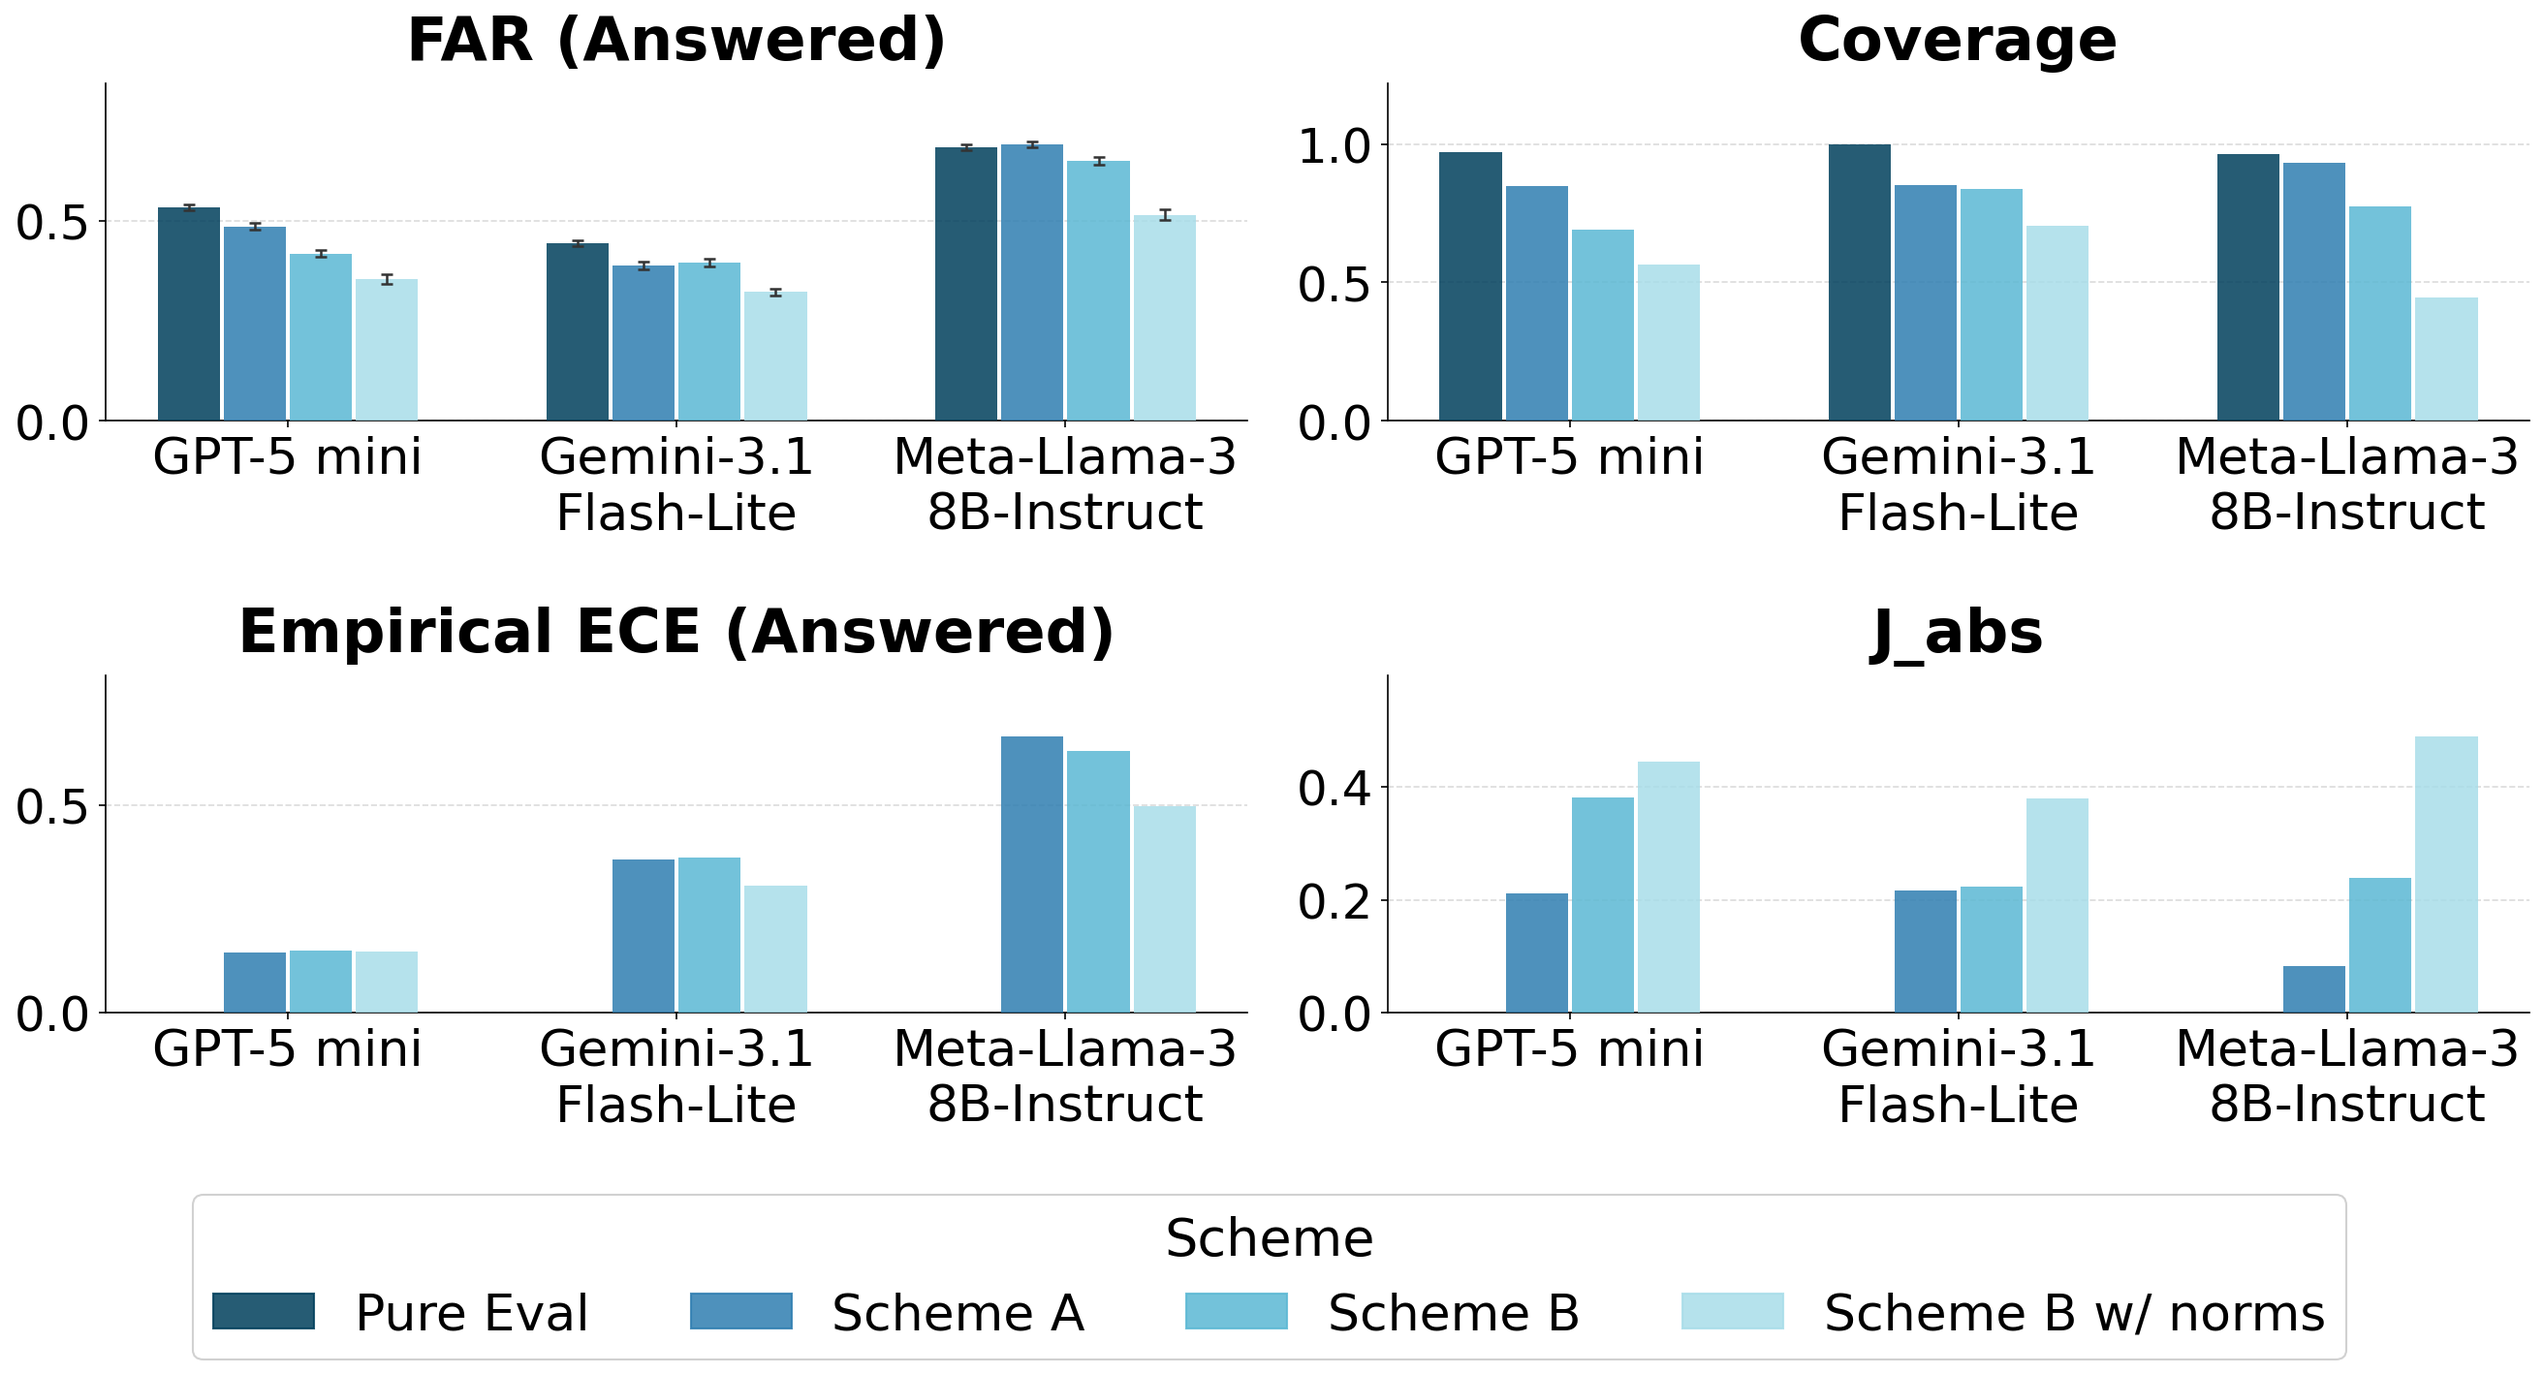
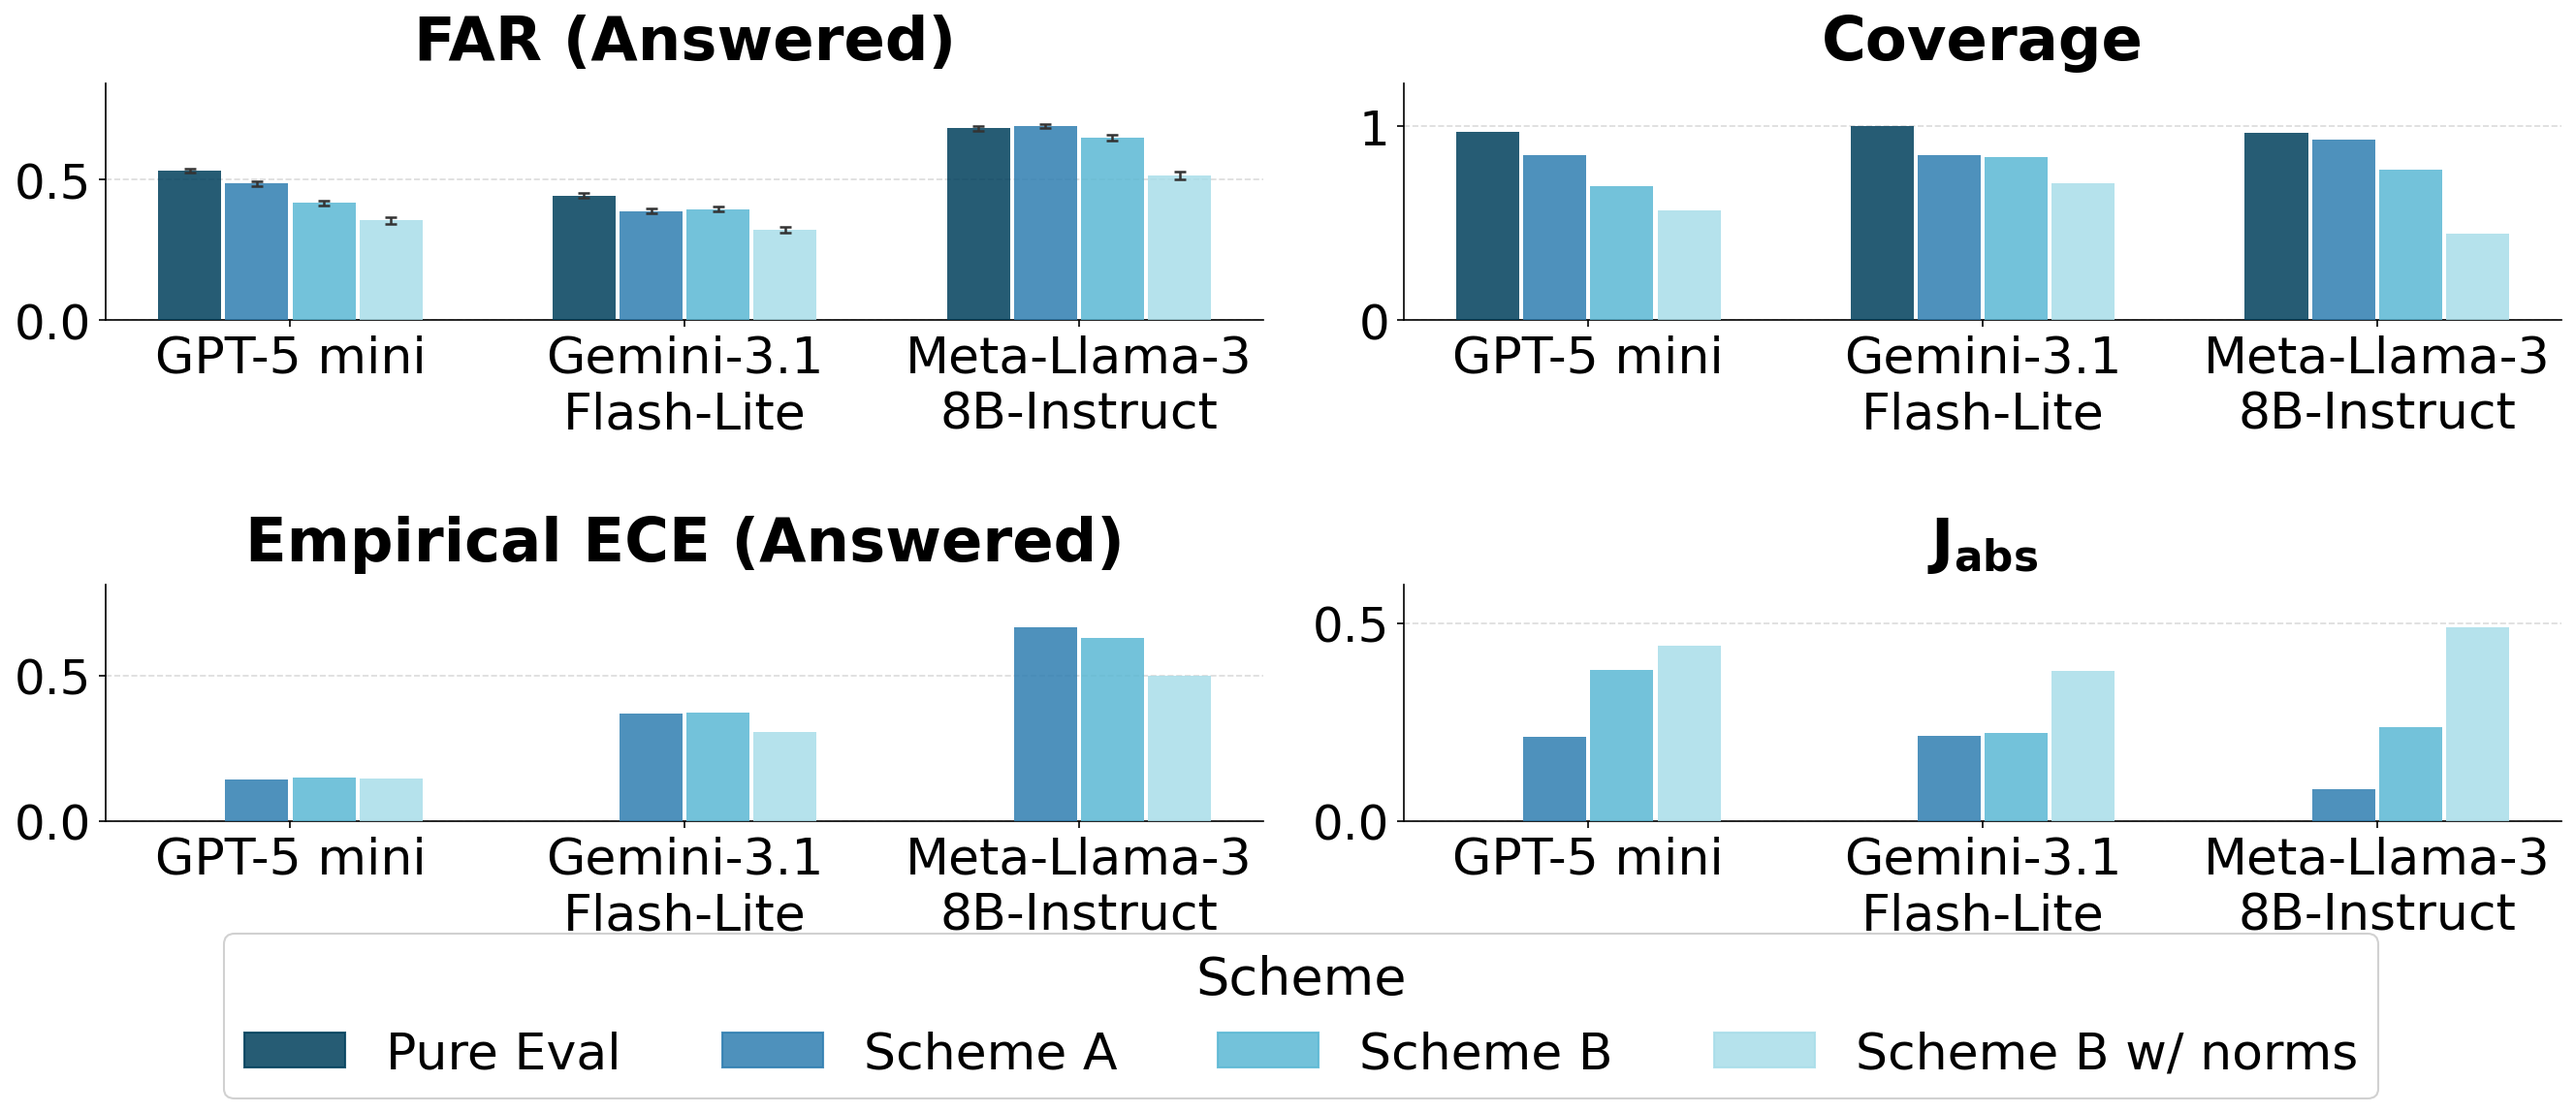
fix: update J_abs label formatting in model comparison metrics

diff --git a/main_exp/popQA/plot/model_comparison.py b/main_exp/popQA/plot/model_comparison.py
@@ -51,7 +51,7 @@ metrics = [
     ('FAR (Answered)', far_vals,   far_errs),
     ('Coverage',        coverage_vals, coverage_errs),
     ('Empirical ECE (Answered)',   ece_vals,   ece_errs),
-    ('J_abs',           jabs_vals,  jabs_errs),
+    (r'$\mathbf{J}_{\mathbf{abs}}$', jabs_vals,  jabs_errs),
 ]
 
 colors  = ['#003F5C', '#2F7EB1', '#5BB8D4', '#A8DDE9']
